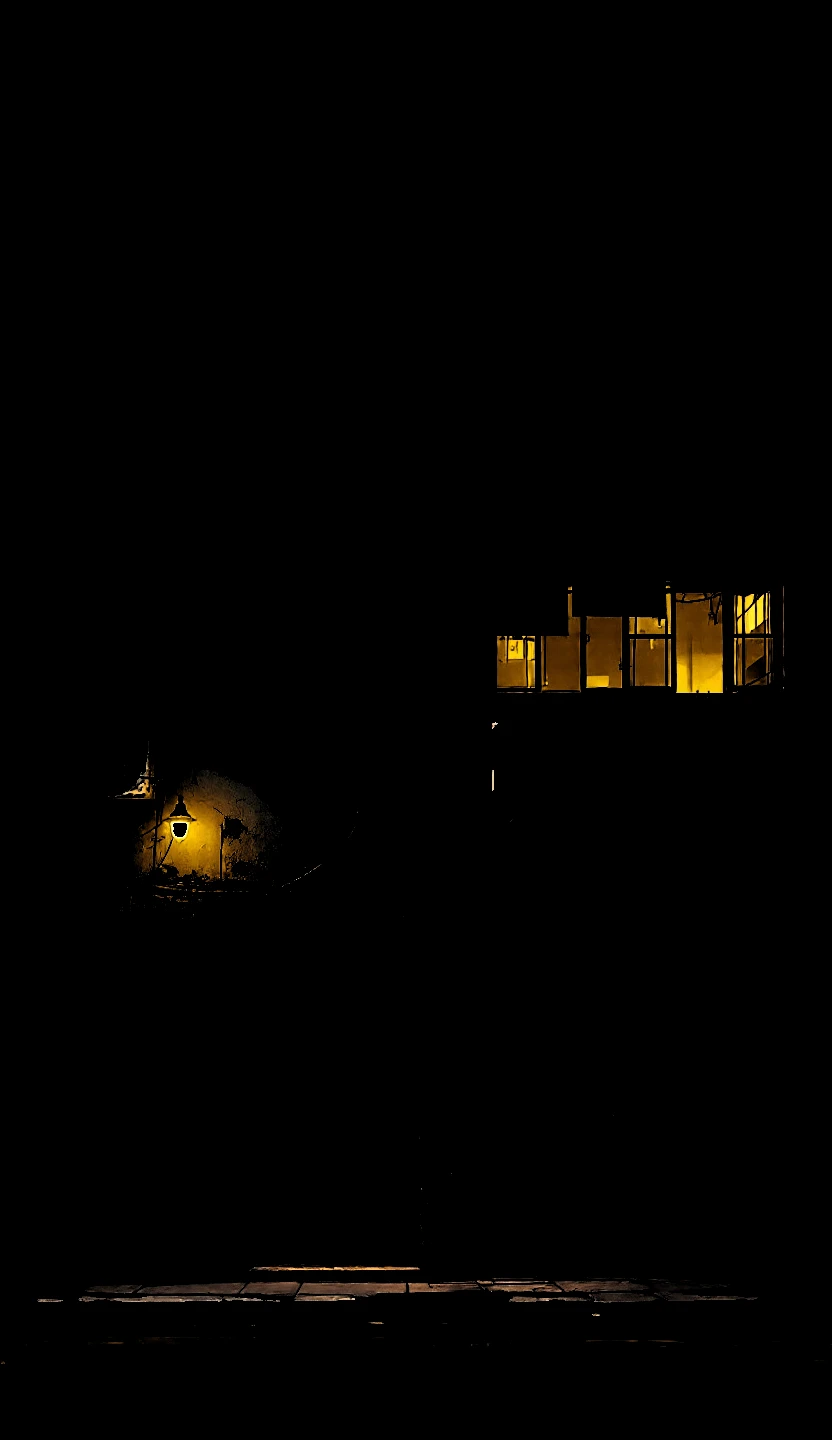
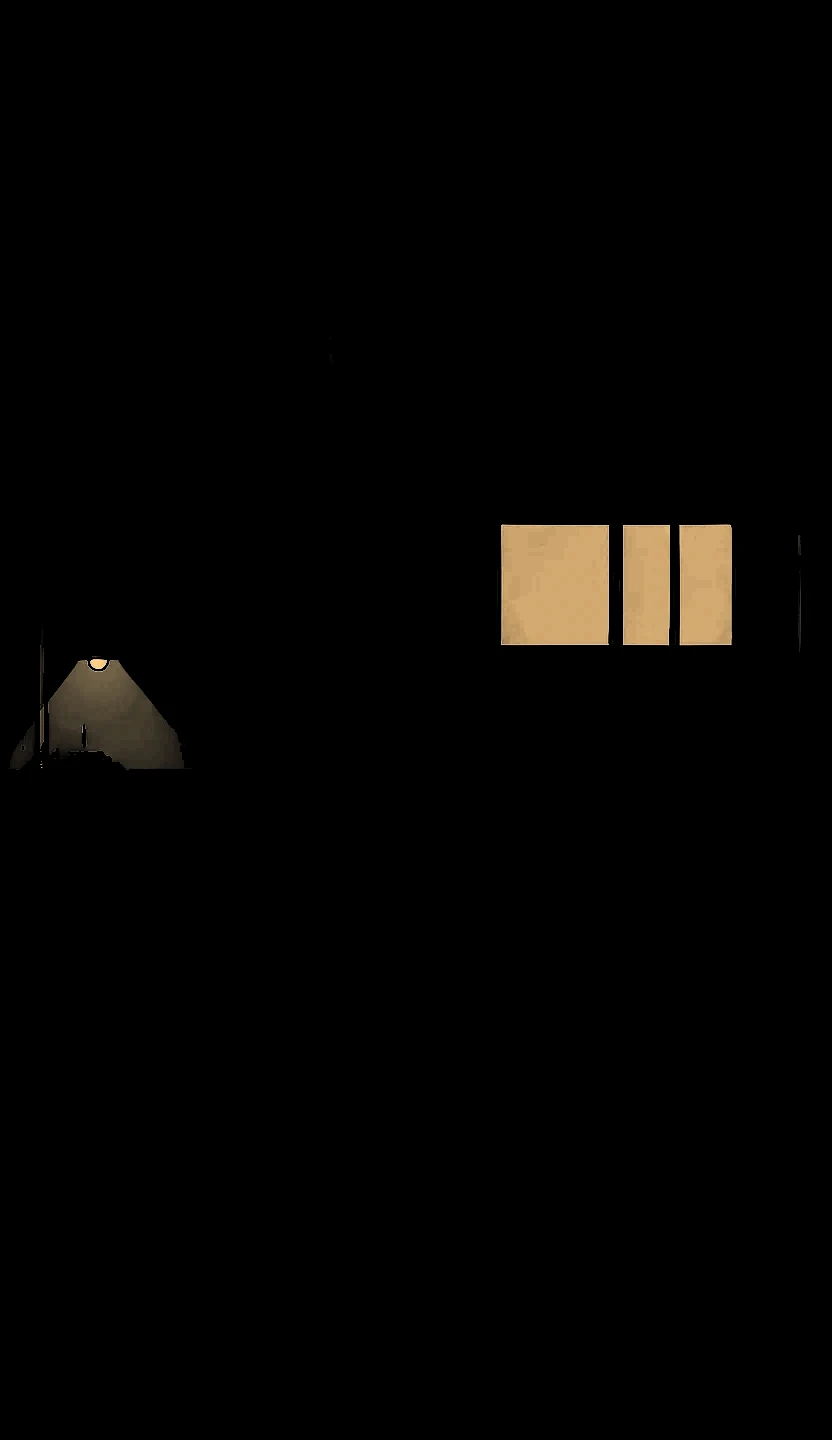
Ship comic test wall v2 (facade_a neutral redo)

diff --git a/scripts/fetch-environment.ts b/scripts/fetch-environment.ts
@@ -183,7 +183,25 @@ async function models(): Promise<void> {
   );
 }
 
-if (!hasKey()) {
+/**
+ * Install hand-supplied art (e.g. Gemini comic repaints) over a slot, deriving _n/_e with the same functions
+ * the generator uses. No FAL_KEY needed.
+ *   npm run fetch-environment -- derive facade_a public/assets/world/facade_a_comic.webp
+ */
+async function derive(name: string, src: string): Promise<void> {
+  const t = TEXTURES.find((x) => x.name === name);
+  if (!t) throw new Error(`unknown texture slot: ${name}`);
+  const img = await sharp(resolve(ROOT, src)).removeAlpha().png().toBuffer();
+  await sharp(img).webp({ quality: 90 }).toFile(resolve(ENV_DIR, `${name}.webp`));
+  await sharp(await normalFromLuma(img, t.relief)).webp({ quality: 90 }).toFile(resolve(ENV_DIR, `${name}_n.webp`));
+  if (t.emissive) await sharp(await emissiveFromWindows(img)).webp({ quality: 90 }).toFile(resolve(ENV_DIR, `${name}_e.webp`));
+  console.log(`[env] ${name} derived from ${src}`);
+}
+
+const deriveAt = process.argv.indexOf("derive");
+if (deriveAt >= 0) {
+  await derive(process.argv[deriveAt + 1], process.argv[deriveAt + 2]);
+} else if (!hasKey()) {
   console.warn("[fetch-environment] FAL_KEY not set — skipping.");
 } else {
   await mkdir(resolve(ROOT, ".cache"), { recursive: true });
